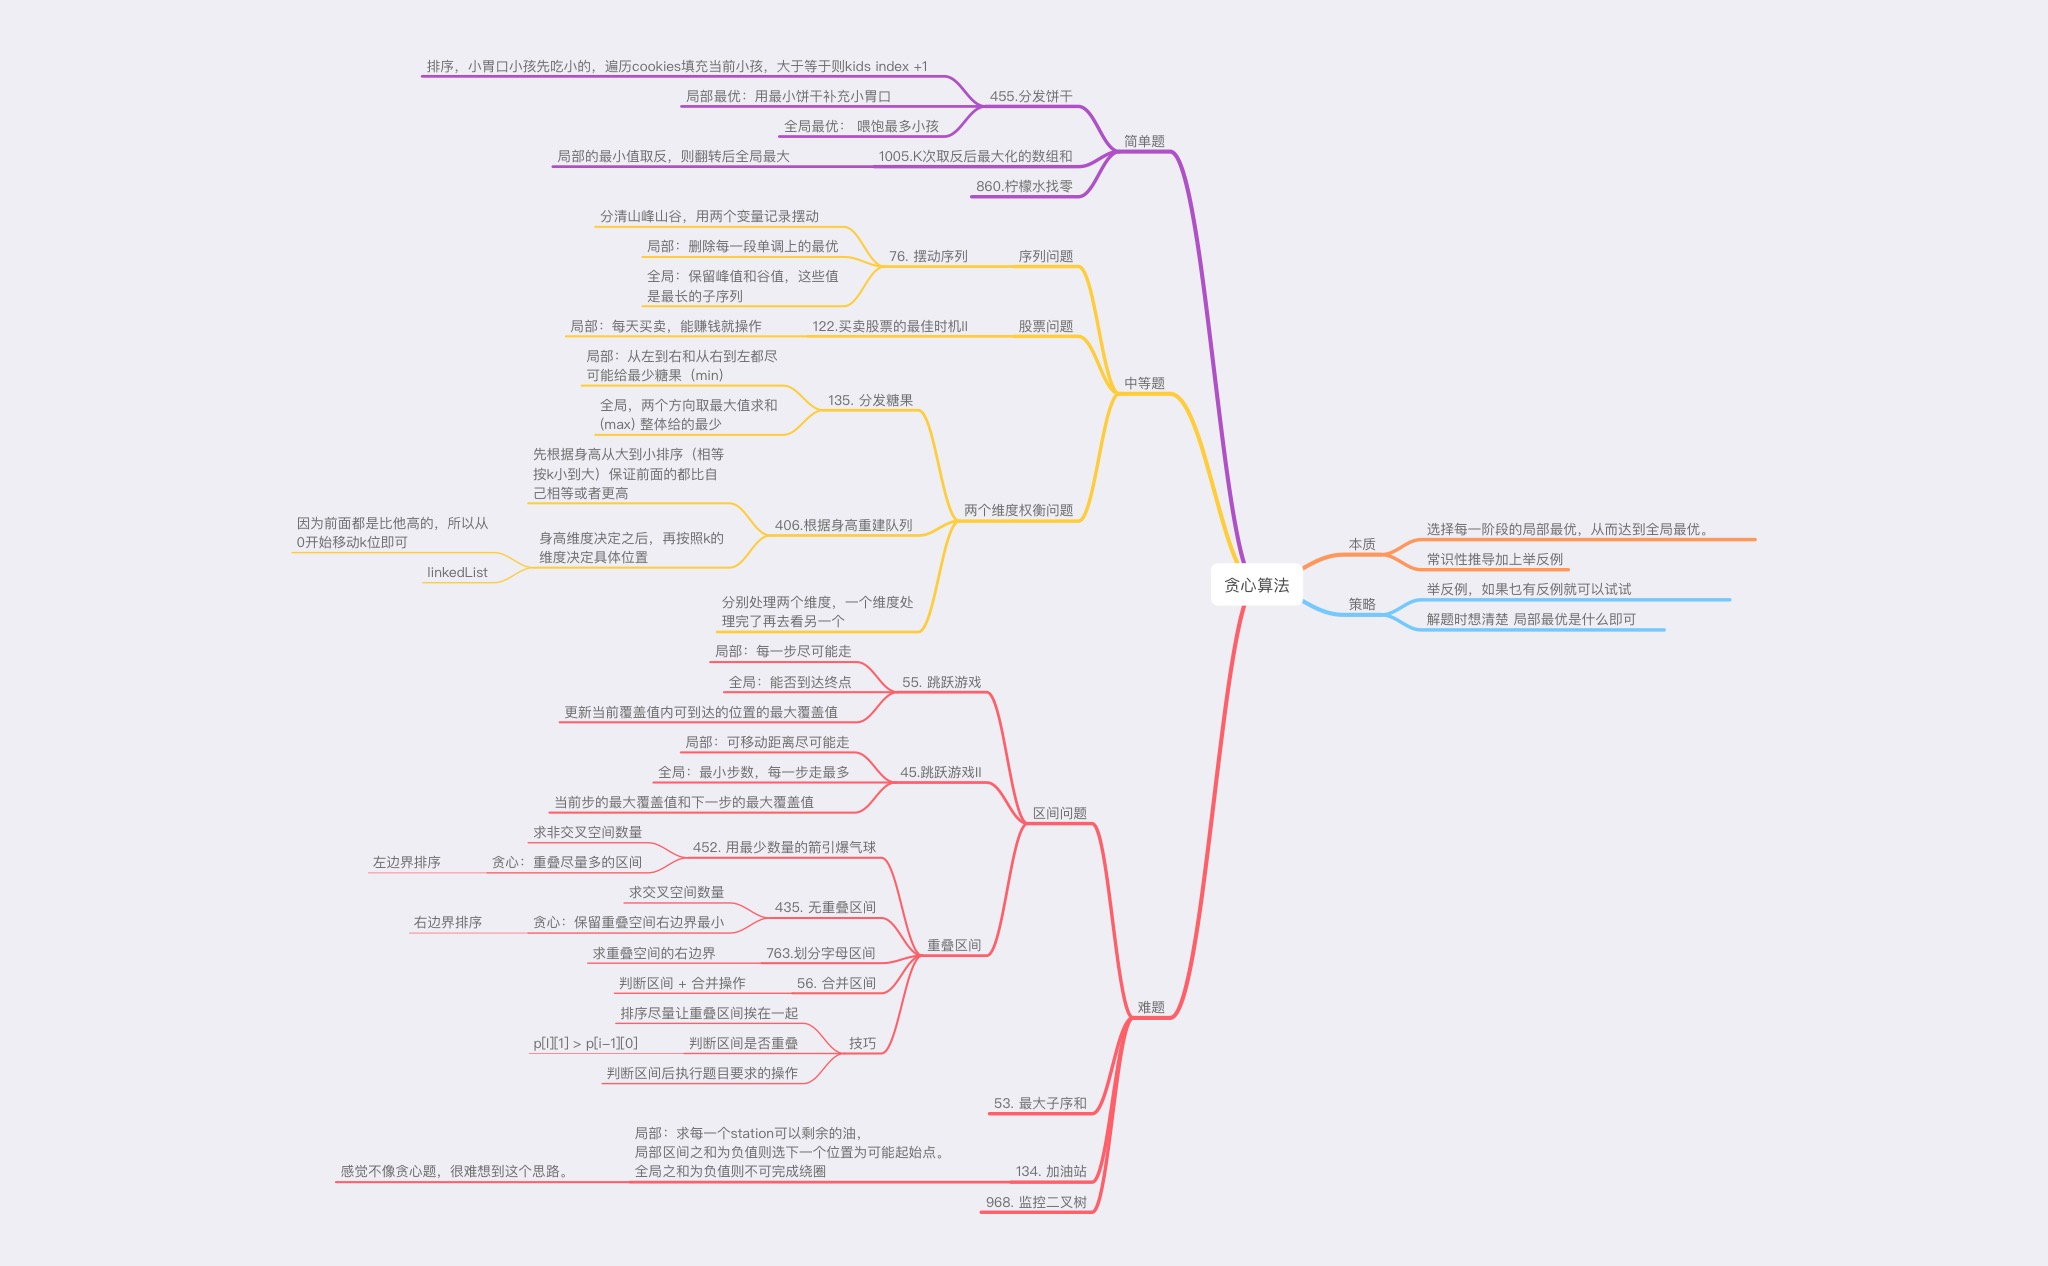
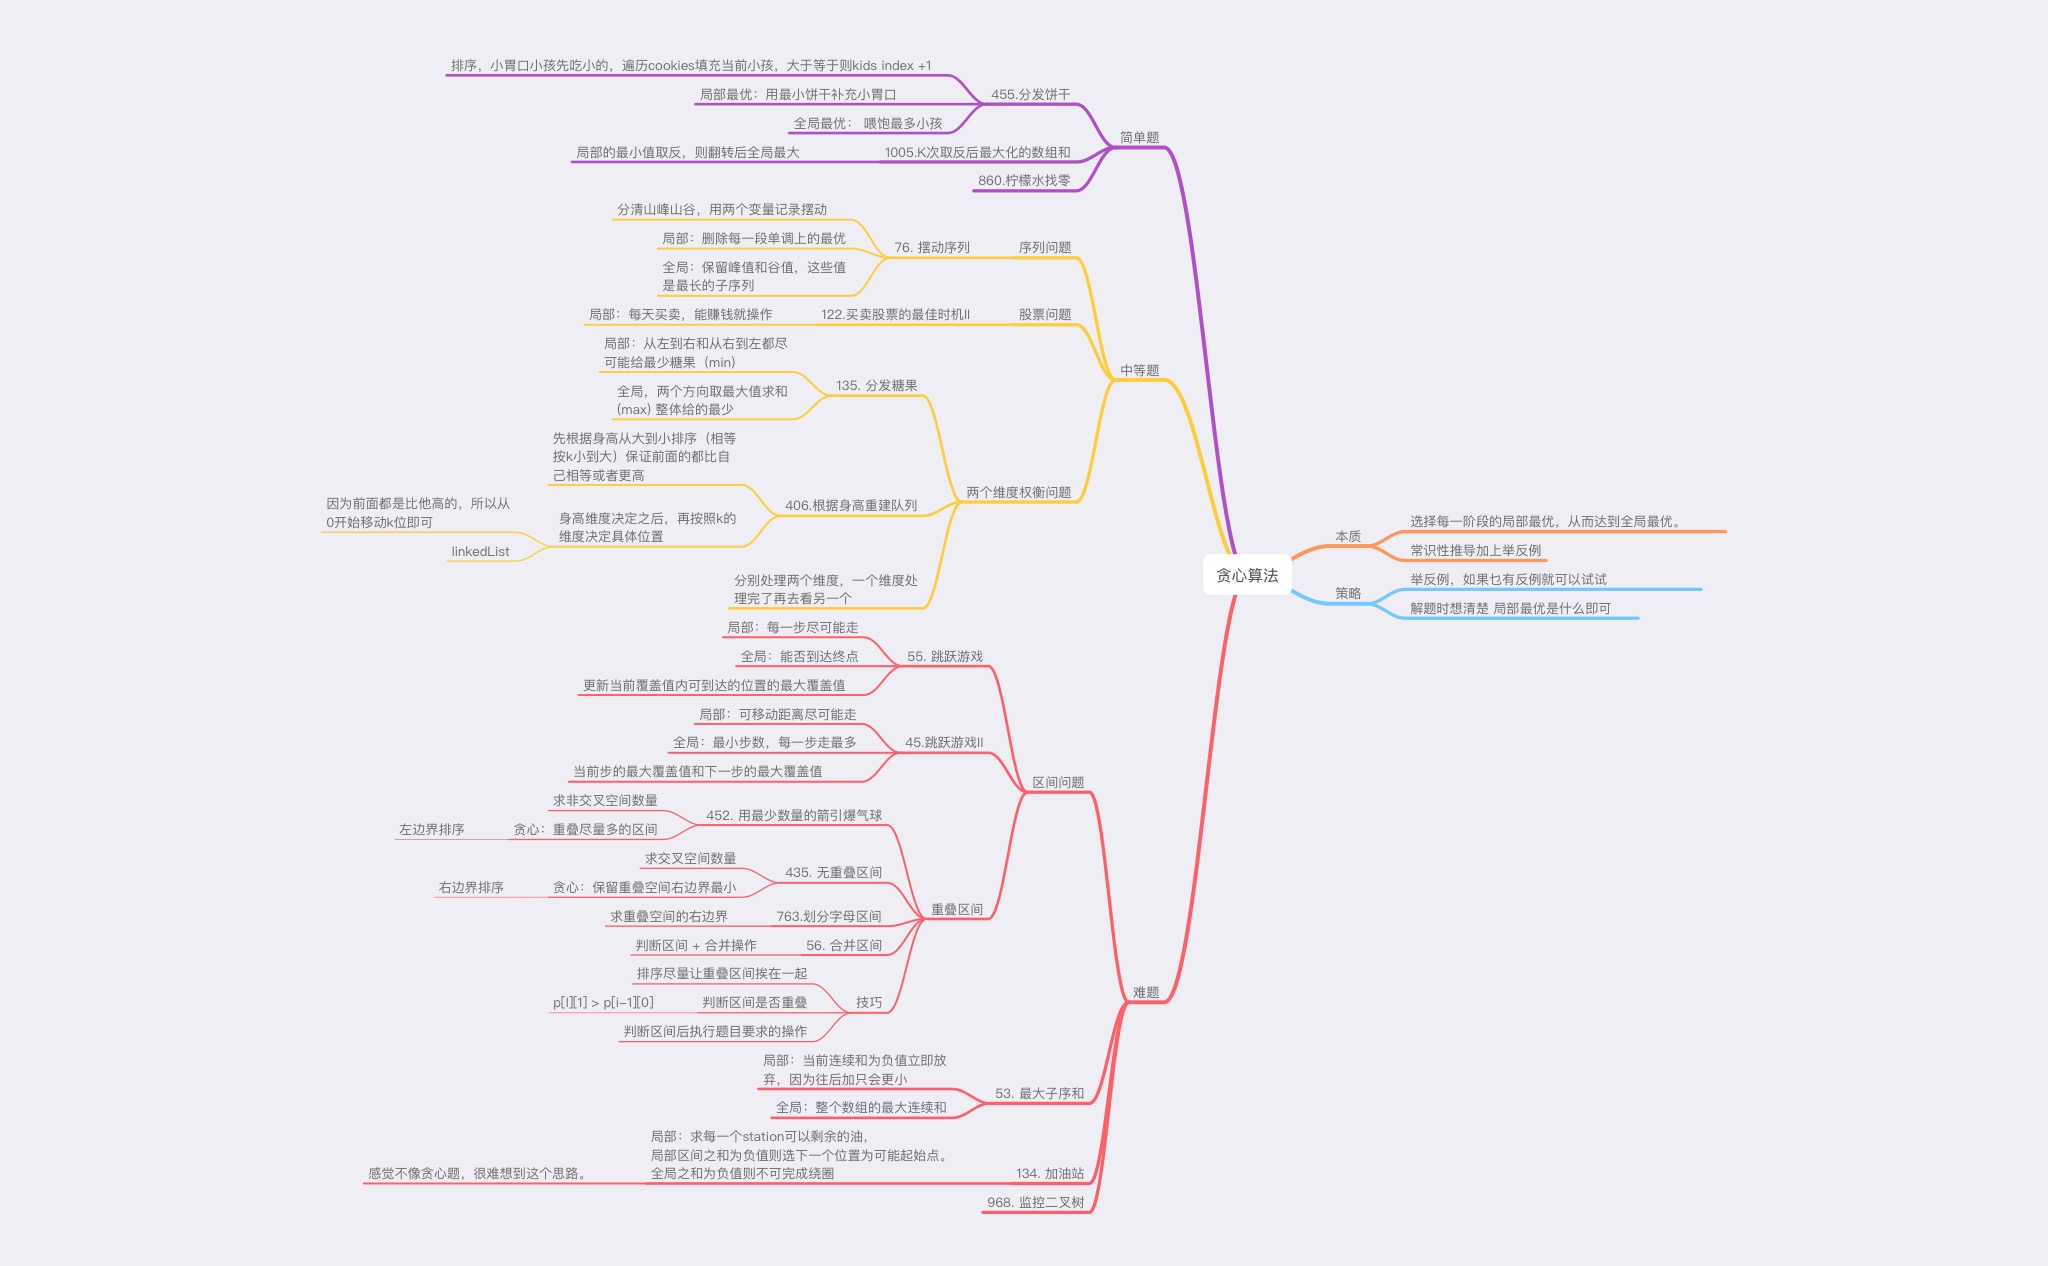
udpate summary greedy

Changed region(s): [[0.1562, 0.0308, 0.8438, 0.955]]

diff --git a/Questions/Greedy/Greedy Summary.md b/Questions/Greedy/Greedy Summary.md
@@ -1,0 +1,36 @@
+# Greedy Summary
+- 选择每一阶段的局部最优，从而达到全局最优。
+- 常识性推导加上举反例
+- 贪心没什么技巧，全凭经验
+  
+## 了解局部最优，全局最优
+1. [[455. Assign Cookies]]
+2. [[1005. Maximize Sum Of Array After K Negations]]
+3. [[860. Lemonade Change]]
+
+## 序列问题
+1. [[376. Wiggle Subsequence]]
+2. [[738. Monotone Increasing Digits]]
+
+## 股票问题
+1. [[122. Best Time to Buy and Sell Stock II]]
+
+## 两个维度权衡
+两个维度一个个看，先看一边再看另一边，每看一边决定一个维度  
+（example: candy里的左边最大，身高里的身高排序）
+1. [[135. Candy]]
+2. [[406. Queue Reconstruction by Height]]
+
+## 区间问题：
+区间的排序， 区间的重叠，区间的覆盖，确定右边界
+1. [[55. Jump Game]]
+2. [[45. Jump Game II]]
+3. [[452. Minimum Number of Arrows to Burst Balloons]]
+4. [[435. Non-overlapping Intervals]] 
+5. [[763. Partition Labels]]
+6. [[56. Merge Intervals]]
+
+## 贪心难题：
+1. [[53. Maximum Subarray]]
+2. [[134. Gas Station]]
+3. [[968. Binary Tree Cameras]]

diff --git a/Questions/Greedy/135. Candy.md b/Questions/Greedy/135. Candy.md
@@ -21,9 +21,9 @@ type: 题解
 
 贪心算法：
 1. 两边都看，先看一边再看另一边
-	2. 左往右：右边更大才加1，不然置为1
-	3. 右往左：左边更大加1，不然置为1
-	4. 取两者最大值，这样能满足ratings
+   1. 左往右：右边更大才加1，不然置为1
+   2. 右往左：左边更大加1，不然置为1
+   3. 取两者最大值，这样能满足ratings
 	
 
 ## 考点  
